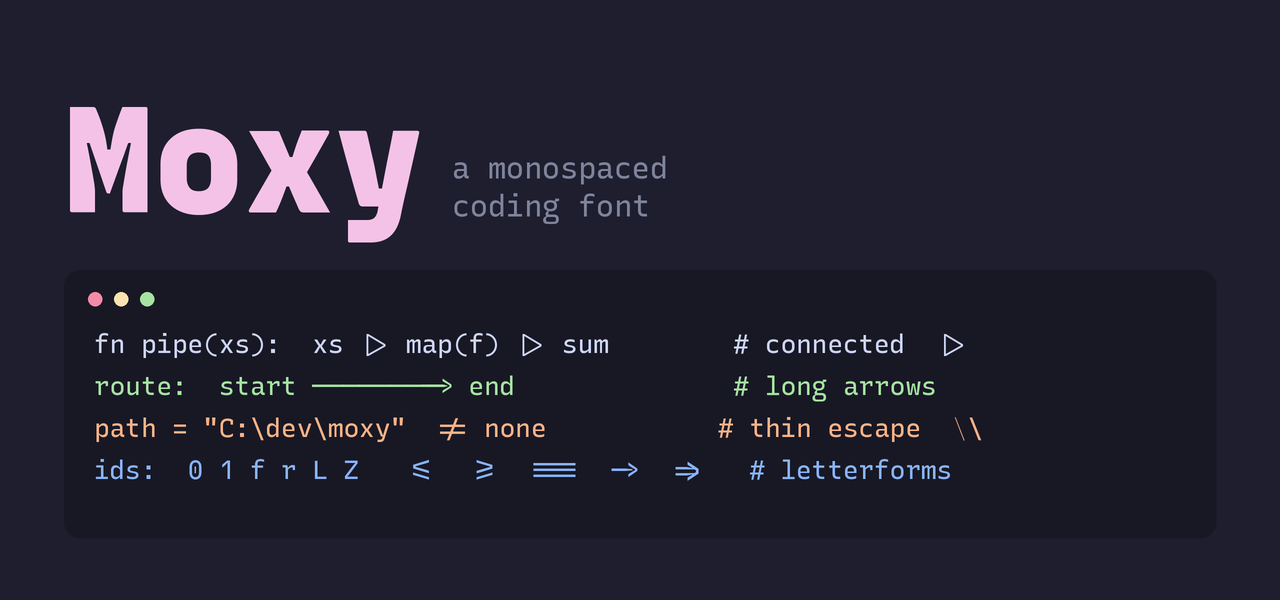
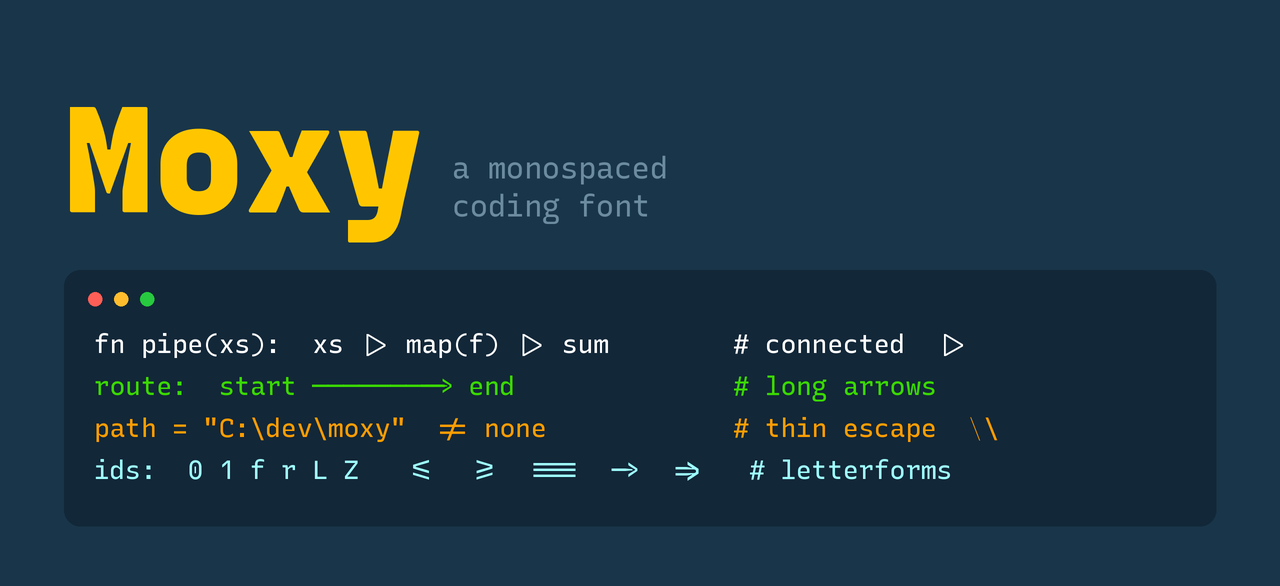
build(branding): markdown-driven, deterministic specimen generator (Cobalt2)
- branding/specimens.md: content spec (wordmark, tagline, code lines, comparison
  rows) — single source of truth for the README images
- scripts/dev/render_specimens.py: parse the .md + render deterministically with a
  Cobalt2 palette (navy + gold)
- Makefile: 'make images-branding' regenerates images/{specimen,comparison}.png
- regenerate both images in Cobalt2

diff --git a/2026-06-16-moxy-implementation-notes.html b/2026-06-16-moxy-implementation-notes.html
@@ -221,5 +221,17 @@
   needs Pillow). The user's prose/ghostty tweaks were preserved.
 </div>
 
+<div class="entry"><span class="tag t-decision">resolved</span><time>2026-06-16 · branding generator</time>
+  Made the README images reproducible + content-driven: <code>branding/specimens.md</code> holds
+  the spec (wordmark, tagline, code lines, comparison rows);
+  <code>scripts/dev/render_specimens.py</code> parses it and renders deterministically with a
+  <strong>Cobalt2</strong> palette (navy + gold). New target <code>make images-branding</code>
+  (installs Pillow on demand) regenerates <code>images/specimen.png</code> +
+  <code>images/comparison.png</code>. Note: the static config diverged intentionally to family
+  <strong>"Moxy Static"</strong> / 4 styles / <code>ss03</code> off; the cask is left as-is for
+  now and the user's upgraded <code>make package</code> regenerates the cask from the built
+  fonts on the next release.
+</div>
+
 </body>
 </html>

diff --git a/scripts/dev/render_specimens.py b/scripts/dev/render_specimens.py
@@ -1,28 +1,80 @@
 #!/usr/bin/env python3
-"""Generate README specimen images from the actual Moxy / Recursive fonts.
-Dev-only (Pillow); not part of the build. Outputs PNGs into images/."""
+"""Deterministically render Moxy's README branding images from a markdown spec.
+
+Content lives in ``branding/specimens.md`` (wordmark, tagline, code lines, the
+comparison rows); this script only owns the *presentation* (layout + the Cobalt2
+palette). Same spec + same fonts => same PNGs.
+
+Run via ``make images-branding`` (installs Pillow, a dev-only dep). Outputs to
+``images/``.
+"""
 import os
+import re
 from PIL import Image, ImageDraw, ImageFont
 
 ROOT = os.path.dirname(os.path.dirname(os.path.dirname(os.path.abspath(__file__))))
+SPEC = os.path.join(ROOT, "branding/specimens.md")
 MOXY = os.path.join(ROOT, "fonts/Moxy-VF/Moxy[MONO,CASL,wght,slnt,CRSV].ttf")
 REC = os.path.join(ROOT, "font-data/Recursive_VF_1.085.ttf")
-OUT = os.path.join(ROOT, "images")
-os.makedirs(OUT, exist_ok=True)
-S = 2  # supersample
+S = 2  # supersample, then downscale for crisp anti-aliasing
 
-# Catppuccin Mocha-ish palette
-BG     = "#1e1e2e"
-CARD   = "#181825"
-TEXT   = "#cdd6f4"
-MUTED  = "#7f849c"
-DIM    = "#585b70"
-PINK   = "#f5c2e7"
-MAUVE  = "#cba6f7"
-GREEN  = "#a6e3a1"
-BLUE   = "#89b4fa"
-PEACH  = "#fab387"
+# Cobalt2 palette (Wes Bos) — deep navy + signature gold.
+PAL = {
+    "bg":      "#193549",
+    "card":    "#122738",
+    "text":    "#ffffff",
+    "muted":   "#6c8b9f",
+    "dim":     "#3b5364",
+    "yellow":  "#ffc600",   # signature accent (wordmark, "Moxy")
+    "orange":  "#ff9d00",
+    "peach":   "#ff9d00",   # alias
+    "green":   "#3ad900",
+    "blue":    "#9effff",
+    "pink":    "#ff628c",
+    "mauve":   "#ff628c",   # alias
+    "comment": "#0088ff",
+}
+DOTS = ["#ff5f56", "#ffbd2e", "#27c93f"]  # mac traffic lights
 
+
+# ----------------------------------------------------------------- spec parsing
+def split_row(line):
+    line = line.strip().strip("|")
+    return [c.strip().replace(r"\|", "|") for c in re.split(r"(?<!\\)\|", line)]
+
+def is_sep(cells):
+    return all(re.fullmatch(r":?-+:?", c or "") for c in cells)
+
+def parse(path):
+    sections, cur, in_fence = [], None, False
+    for raw in open(path, encoding="utf-8").read().splitlines():
+        head = re.match(r"^##\s+(\S+)\s*(?:->|→)\s*(.+?)\s*$", raw)
+        if head and not in_fence:
+            cur = {"id": head.group(1), "out": head.group(2),
+                   "params": {}, "code": [], "_rows": []}
+            sections.append(cur)
+            continue
+        if cur is None:
+            continue
+        if raw.strip().startswith("```"):
+            in_fence = not in_fence
+            continue
+        if in_fence:
+            cur["code"].append(raw)
+            continue
+        p = re.match(r"^-\s+([\w ]+?):\s*(.*)$", raw)
+        if p:
+            cur["params"][p.group(1).strip()] = p.group(2).strip()
+            continue
+        if raw.lstrip().startswith("|"):
+            cur["_rows"].append(split_row(raw))
+    for s in sections:
+        data = [r for r in s["_rows"] if not is_sep(r)]
+        s["rows"] = data[1:]  # drop the header row
+    return sections
+
+
+# ----------------------------------------------------------------- render utils
 def font(path, px, axes):
     f = ImageFont.truetype(path, px * S)
     try:
@@ -31,85 +83,91 @@ def font(path, px, axes):
         print("axes warn:", e)
     return f
 
-def moxy(px, wght=400):   return font(MOXY, px, [1, 0.5, wght, 0, 0])
-def rec(px, wght=400):    return font(REC,  px, [1, 0.5, wght, 0, 0])
+def moxy(px, wght=400):  return font(MOXY, px, [1, 0.5, wght, 0, 0])
+def rec(px, wght=400):   return font(REC, px, [1, 0.5, wght, 0, 0])
 
-def text(d, xy, s, f, fill, features=None):
-    d.text((xy[0]*S, xy[1]*S), s, font=f, fill=fill,
-           features=(features if features is not None else ["calt"]))
+def draw(d, xy, s, f, fill, feats=("calt",)):
+    d.text((xy[0] * S, xy[1] * S), s, font=f, fill=fill, features=list(feats))
 
-def width(d, s, f, features=None):
-    return d.textlength(s, font=f, features=(features if features is not None else ["calt"]))
+def textlen(d, s, f, feats=("calt",)):
+    return d.textlength(s, font=f, features=list(feats)) / S
 
-def finish(img, path):
+def save(img, out):
+    path = os.path.join(ROOT, out)
+    os.makedirs(os.path.dirname(path), exist_ok=True)
     w, h = img.size
-    img.resize((w//S, h//S), Image.LANCZOS).save(path)
-    print("wrote", path)
+    img.resize((w // S, h // S), Image.LANCZOS).save(path)
+    print("wrote", os.path.relpath(path, ROOT))
 
 
-# ---------------------------------------------------------------- HERO
-def hero():
-    W, H = 1280, 600
-    img = Image.new("RGB", (W*S, H*S), BG)
+# ----------------------------------------------------------------- renderers
+def render_specimen(sec):
+    wordmark = sec["params"].get("wordmark", "Moxy")
+    tagline = [t.strip() for t in sec["params"].get("tagline", "").split("|") if t.strip()]
+    lines = sec["code"]
+
+    W = 1280
+    card_x, card_y, card_w = 64, 270, W - 128
+    lh, pad_top, pad_bot = 42, 58, 30
+    card_h = pad_top + len(lines) * lh + pad_bot
+    H = card_y + card_h + 60
+
+    img = Image.new("RGB", (W * S, H * S), PAL["bg"])
     d = ImageDraw.Draw(img)
 
-    # wordmark
-    text(d, (64, 70), "Moxy", moxy(150, 850), PINK)
-    wm = width(d, "Moxy", moxy(150, 850)) / S
-    text(d, (64 + wm + 28, 150), "a monospaced", moxy(30, 420), MUTED)
-    text(d, (64 + wm + 28, 188), "coding font", moxy(30, 420), MUTED)
+    draw(d, (card_x, 70), wordmark, moxy(150, 850), PAL["yellow"])
+    wm = textlen(d, wordmark, moxy(150, 850))
+    for i, t in enumerate(tagline[:2]):
+        draw(d, (card_x + wm + 28, 150 + i * 38), t, moxy(30, 420), PAL["muted"])
 
-    # terminal-ish card
-    cx, cy, cw, ch = 64, 270, W-128, 268
-    d.rounded_rectangle([cx*S, cy*S, (cx+cw)*S, (cy+ch)*S], radius=16*S, fill=CARD)
-    for i, c in enumerate(["#f38ba8", "#f9e2af", "#a6e3a1"]):
-        d.ellipse([(cx+24+i*26)*S, (cy+22)*S, (cx+24+i*26+14)*S, (cy+22+14)*S], fill=c)
+    d.rounded_rectangle(
+        [card_x * S, card_y * S, (card_x + card_w) * S, (card_y + card_h) * S],
+        radius=16 * S, fill=PAL["card"])
+    for i, c in enumerate(DOTS):
+        x = card_x + 24 + i * 26
+        d.ellipse([x * S, (card_y + 22) * S, (x + 14) * S, (card_y + 36) * S], fill=c)
 
-    px, py, lh = cx+30, cy+58, 42
     cf = moxy(26, 430)
-    # each line drawn whole so calt ligatures form; light syntax tint per line
-    text(d, (px, py+0*lh),  "fn pipe(xs):  xs |> map(f) |> sum        # connected  |>", cf, TEXT)
-    text(d, (px, py+1*lh),  "route:  start --------> end              # long arrows", cf, GREEN)
-    text(d, (px, py+2*lh),  'path = \"C:\\dev\\moxy\"  != none           # thin escape  \\\\', cf, PEACH)
-    text(d, (px, py+3*lh),  "ids:  0 1 f r L Z   <=  >=  ===  ->  =>   # letterforms", cf, BLUE)
-    finish(img, os.path.join(OUT, "specimen.png"))
+    for i, line in enumerate(lines):
+        m = re.match(r"^\[(\w+)\](.*)$", line)
+        color, txt = (PAL.get(m.group(1), PAL["text"]), m.group(2)) if m else (PAL["text"], line)
+        draw(d, (card_x + 30, card_y + pad_top + i * lh), txt, cf, color)
+    save(img, sec["out"])
 
 
-# ---------------------------------------------------------------- COMPARISON
-def comparison():
-    rows = [
-        ("parentheses",   "(sum)",            "(sum)"),
-        ("long arrows",   "start --------> end", "start --------> end"),
-        ("connected bars","|>   <|",          "|>   <|"),
-        ("dashes",        "----------",       "----------"),
-        ("escape  \\",    "\"\\n\\t C:\\dev\"",  "\"\\n\\t C:\\dev\""),
-        ("letterforms",   "f r L Z 0 1",      "f r L Z 0 1"),
-        ("extra arrows",  "\u21a9 \u21aa \u21b0 \u21c4", "\u21a9 \u21aa \u21b0 \u21c4"),
-    ]
+def render_comparison(sec):
+    title = sec["params"].get("title", "What's different from Recursive")
+    rows = sec["rows"]
+
     W = 1280
     top, rh, lblx, colL, colR = 132, 70, 64, 470, 880
-    H = top + rh*len(rows) + 40
-    img = Image.new("RGB", (W*S, H*S), BG)
+    H = top + rh * len(rows) + 40
+    img = Image.new("RGB", (W * S, H * S), PAL["bg"])
     d = ImageDraw.Draw(img)
 
-    text(d, (lblx, 40), "What's different from Recursive", moxy(34, 800), TEXT)
-    # column headers
-    text(d, (colL, 96), "Recursive", moxy(22, 600), MUTED)
-    text(d, (colR, 96), "Moxy", moxy(22, 700), PINK)
-    # divider before Moxy column
-    d.line([(colR-30)*S, top*S, (colR-30)*S, (H-30)*S], fill=DIM, width=1*S)
+    draw(d, (lblx, 40), title, moxy(34, 800), PAL["text"])
+    draw(d, (colL, 96), "Recursive", moxy(22, 600), PAL["muted"])
+    draw(d, (colR, 96), "Moxy", moxy(22, 700), PAL["yellow"])
+    d.line([(colR - 30) * S, top * S, (colR - 30) * S, (H - 30) * S], fill=PAL["dim"], width=S)
 
     rf, mf = rec(30, 430), moxy(30, 430)
-    for i, (label, lhs, rhs) in enumerate(rows):
-        y = top + i*rh
-        if i: d.line([lblx*S, (y-8)*S, (W-40)*S, (y-8)*S], fill="#313244", width=1*S)
-        text(d, (lblx, y+8), label, moxy(20, 430), DIM, features=["calt"])
-        # Recursive: its own ligatures (dlig); Moxy: default (calt)
-        text(d, (colL, y+2), lhs, rf, MUTED, features=["dlig", "calt"])
-        text(d, (colR, y+2), rhs, mf, TEXT, features=["calt"])
-    finish(img, os.path.join(OUT, "comparison.png"))
+    for i, row in enumerate(rows):
+        label, sample = (row + ["", ""])[:2]
+        y = top + i * rh
+        if i:
+            d.line([lblx * S, (y - 8) * S, (W - 40) * S, (y - 8) * S], fill="#23394a", width=S)
+        draw(d, (lblx, y + 8), label, moxy(20, 430), PAL["dim"])
+        draw(d, (colL, y + 2), sample, rf, PAL["muted"], feats=("dlig", "calt"))
+        draw(d, (colR, y + 2), sample, mf, PAL["text"], feats=("calt",))
+    save(img, sec["out"])
 
+
+RENDERERS = {"specimen": render_specimen, "comparison": render_comparison}
 
 if __name__ == "__main__":
-    hero()
-    comparison()
+    for sec in parse(SPEC):
+        r = RENDERERS.get(sec["id"])
+        if r:
+            r(sec)
+        else:
+            print("skip unknown section:", sec["id"])

diff --git a/branding/specimens.md b/branding/specimens.md
@@ -1,0 +1,41 @@
+# Moxy branding specimens
+
+Source of truth for the README images. Run `make images-branding` to regenerate
+them **deterministically** from this file (same input + same fonts → same PNGs).
+
+Format:
+
+- Each `## <id> -> <output-path>` heading defines one image. `<id>` selects the
+  renderer (`specimen` or `comparison`); `<output-path>` is where the PNG is written.
+- `- key: value` lines set parameters for that section.
+- A fenced code block holds the specimen's code lines. Prefix a line with a color
+  in brackets to tint it — one of: `text` (default), `muted`, `green`, `blue`,
+  `peach`, `mauve`, `pink`. Lines are rendered verbatim (ligatures via `calt`).
+- A markdown table (`| label | sample |`) holds the comparison rows. The sample is
+  drawn twice — once in Recursive, once in Moxy. Escape a literal pipe as `\|`.
+
+## specimen -> images/specimen.png
+
+- wordmark: Moxy
+- tagline: a monospaced | coding font
+
+```
+fn pipe(xs):  xs |> map(f) |> sum        # connected  |>
+[green]route:  start --------> end              # long arrows
+[peach]path = "C:\dev\moxy"  != none            # thin escape  \\
+[blue]ids:  0 1 f r L Z   <=  >=  ===  ->  =>   # letterforms
+```
+
+## comparison -> images/comparison.png
+
+- title: What's different from Recursive
+
+| feature | sample |
+| --- | --- |
+| parentheses | (sum) |
+| long arrows | start --------> end |
+| connected bars | \|>   <\| |
+| dashes | ---------- |
+| escape  \ | "\n\t C:\dev" |
+| letterforms | f r L Z 0 1 |
+| extra arrows | ↩ ↪ ↰ ⇄ |